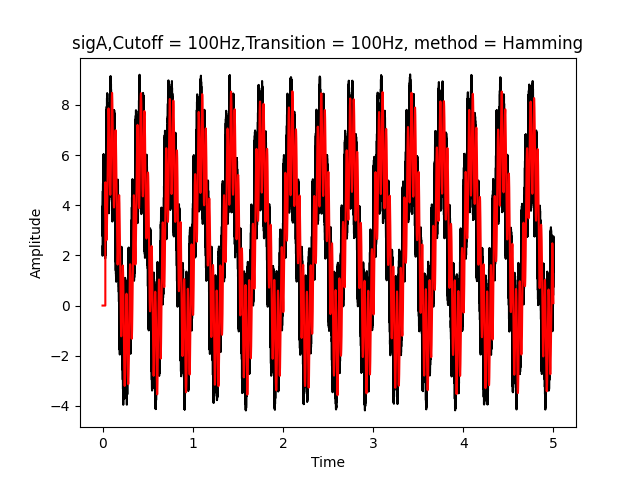
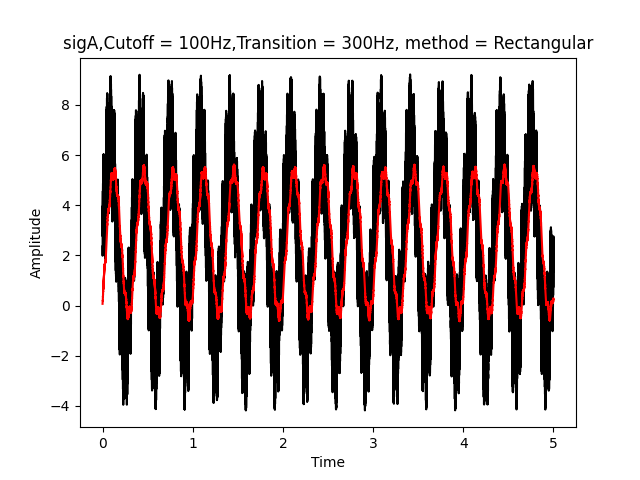
HW14

Changed region(s): [[0.1562, 0.1875, 0.875, 0.8125], [0.0938, 0.0625, 0.9375, 0.125]]

diff --git a/HW14/Q7.py b/HW14/Q7.py
@@ -3,100 +3,38 @@ import numpy as np
 import csv
 
 h = [
-    0.005347333847943900,
-    0.004546014530102697,
-    0.003592883372736597,
-    0.002503789906745420,
-    0.001298414615133528,
-    -0.000000000000000002,
-    -0.001364999980012160,
-    -0.002767346739034416,
-    -0.004175513108856049,
-    -0.005556239981236629,
-    -0.006875143518785017,
-    -0.008097361682795132,
-    -0.009188227819777815,
-    -0.010113958281703432,
-    -0.010842340547161138,
-    -0.011343408075448463,
-    -0.011590088171103284,
-    -0.011558809464803921,
-    -0.011230056224172886,
-    -0.010588857585193640,
-    -0.009625200926299022,
-    -0.008334359971854942,
-    -0.006717129783811907,
-    -0.004779962549241264,
-    -0.002534999962879733,
-    0.000000000000000002,
-    0.002801842064235499,
-    0.005842176449072653,
-    0.009087881472216095,
-    0.012501539957782411,
-    0.016042001543831706,
-    0.019665021229645332,
-    0.023323962927128305,
-    0.026970555417875814,
-    0.030555686996545022,
-    0.034030224226345392,
-    0.037345839662443925,
-    0.040455833126813730,
-    0.043315931150381126,
-    0.045885049535839106,
-    0.048126004631495106,
-    0.050006159831129639,
-    0.051497995009224577,
-    0.052579588041653857,
-    0.053234999220474449,
-    0.053454551214750033,
-    0.053234999220474449,
-    0.052579588041653857,
-    0.051497995009224577,
-    0.050006159831129639,
-    0.048126004631495106,
-    0.045885049535839106,
-    0.043315931150381126,
-    0.040455833126813730,
-    0.037345839662443925,
-    0.034030224226345392,
-    0.030555686996545022,
-    0.026970555417875814,
-    0.023323962927128305,
-    0.019665021229645332,
-    0.016042001543831706,
-    0.012501539957782411,
-    0.009087881472216095,
-    0.005842176449072653,
-    0.002801842064235499,
-    0.000000000000000002,
-    -0.002534999962879733,
-    -0.004779962549241264,
-    -0.006717129783811907,
-    -0.008334359971854942,
-    -0.009625200926299022,
-    -0.010588857585193640,
-    -0.011230056224172886,
-    -0.011558809464803921,
-    -0.011590088171103284,
-    -0.011343408075448463,
-    -0.010842340547161138,
-    -0.010113958281703432,
-    -0.009188227819777815,
-    -0.008097361682795132,
-    -0.006875143518785017,
-    -0.005556239981236629,
-    -0.004175513108856049,
-    -0.002767346739034416,
-    -0.001364999980012160,
-    -0.000000000000000002,
-    0.001298414615133528,
-    0.002503789906745420,
-    0.003592883372736597,
-    0.004546014530102697,
-    0.005347333847943900,
+    0.029183359514055443,
+    0.029779744780144553,
+    0.030341314035934788,
+    0.030866756254078743,
+    0.031354842164334006,
+    0.031804427695546707,
+    0.032214457182525101,
+    0.032583966327994970,
+    0.032912084910572369,
+    0.033198039230461426,
+    0.033441154285384696,
+    0.033640855670076741,
+    0.033796671193517147,
+    0.033908232208942304,
+    0.033975274652555849,
+    0.033997639787750347,
+    0.033975274652555849,
+    0.033908232208942304,
+    0.033796671193517147,
+    0.033640855670076741,
+    0.033441154285384696,
+    0.033198039230461426,
+    0.032912084910572369,
+    0.032583966327994970,
+    0.032214457182525101,
+    0.031804427695546707,
+    0.031354842164334006,
+    0.030866756254078743,
+    0.030341314035934788,
+    0.029779744780144553,
+    0.029183359514055443,
 ]
-
-
 
 
 def myfft(data,time):
@@ -114,24 +52,24 @@ def myfft(data,time):
     return abs(Y),frq
 
 def myFIR(data,coef):
-    mafdata = []
-    window_size = len(coef)
+    window_size = len(coef)-1
+    FIRdata = np.zeros(window_size)
 
-    for i in range(len(data) - window_size + 1):
-        window = data[i:i + window_size]
+    for i in range(len(data)):
+        window = np.append(FIRdata[-window_size:],data[i])
 
         average = np.sum(np.multiply(window,coef))
-        mafdata = np.append([mafdata],[average])
-        print(i)
-    mafdata = np.append(np.zeros(window_size-1),[mafdata])
-    return mafdata
+        FIRdata = np.append([FIRdata],[average])
+    
+    print(FIRdata)
+    return FIRdata[window_size:]
 
 
 t = [] # column 0
 data1 = [] # column 1
 
 
-with open('C:/Users/59201/Desktop/NU/2024 Spring/ME433/ME433_2024SP_Homeworks/HW14/sigD.csv') as f:
+with open('C:/Users/59201/Desktop/NU/2024 Spring/ME433/ME433_2024SP_Homeworks/HW14/sigA.csv') as f:
     # open the csv file
     reader = csv.reader(f)
     for row in reader:
@@ -146,7 +84,7 @@ ax1.plot(t,data1,'black')
 ax1.set_xlabel('Time')
 ax1.set_ylabel('Amplitude')
 ax1.plot(t,data2,'red')
-ax1.set_title('sigD,Cutoff = 10Hz,Transition = 10Hz, method = Rectangular')
+ax1.set_title('sigA,Cutoff = 100Hz,Transition = 300Hz, method = Rectangular')
 
 
 plt.show()

diff --git a/HW14/Q6.py b/HW14/Q6.py
@@ -17,22 +17,21 @@ def myfft(data,time):
     return abs(Y),frq
 
 def mymaf_IIR(data,A,B):
-    mafdata = []
-    window_size = 2
-    for i in range(len(data) - window_size + 1):
-        window = data[i:i + window_size]
+    mafdata = [0]
 
-        average = window[0]*A + window[1]*B
+    for i in range(len(data)):
+
+        average = mafdata[-1] *A + data[i] *B
         mafdata = np.append([mafdata],[average])
-    mafdata = np.append(np.zeros(window_size-1),[mafdata])
-    return mafdata
+
+    return mafdata[1:]
 
 
 t = [] # column 0
 data1 = [] # column 1
 
 
-with open('C:/Users/59201/Desktop/NU/2024 Spring/ME433/ME433_2024SP_Homeworks/HW14/sigA.csv') as f:
+with open('C:/Users/59201/Desktop/NU/2024 Spring/ME433/ME433_2024SP_Homeworks/HW14/sigD.csv') as f:
     # open the csv file
     reader = csv.reader(f)
     for row in reader:
@@ -41,7 +40,7 @@ with open('C:/Users/59201/Desktop/NU/2024 Spring/ME433/ME433_2024SP_Homeworks/HW
             data1.append(float(row[1])) # second column
 
 
-A = 0.5
+A = 0.95
 B = 1-A
 data2 = mymaf_IIR(data1,A,B)
 
@@ -51,7 +50,7 @@ ax1.plot(t,data1,'black')
 ax1.set_xlabel('Time')
 ax1.set_ylabel('Amplitude')
 ax1.plot(t,data2,'red')
-ax1.set_title('sigA,A=%f,B=%f' % (A,B))
+ax1.set_title('sigD,A=%f,B=%f' % (A,B))
 
 
 plt.show()

diff --git a/HW14/Q4.py b/HW14/Q4.py
@@ -21,7 +21,7 @@ t = [] # column 0
 data1 = [] # column 1
 
 
-with open('C:/Users/59201/Desktop/NU/2024 Spring/ME433/ME433_2024SP_Homeworks/HW14/sigD.csv') as f:
+with open('C:/Users/59201/Desktop/NU/2024 Spring/ME433/ME433_2024SP_Homeworks/HW14/sigA.csv') as f:
     # open the csv file
     reader = csv.reader(f)
     for row in reader:
